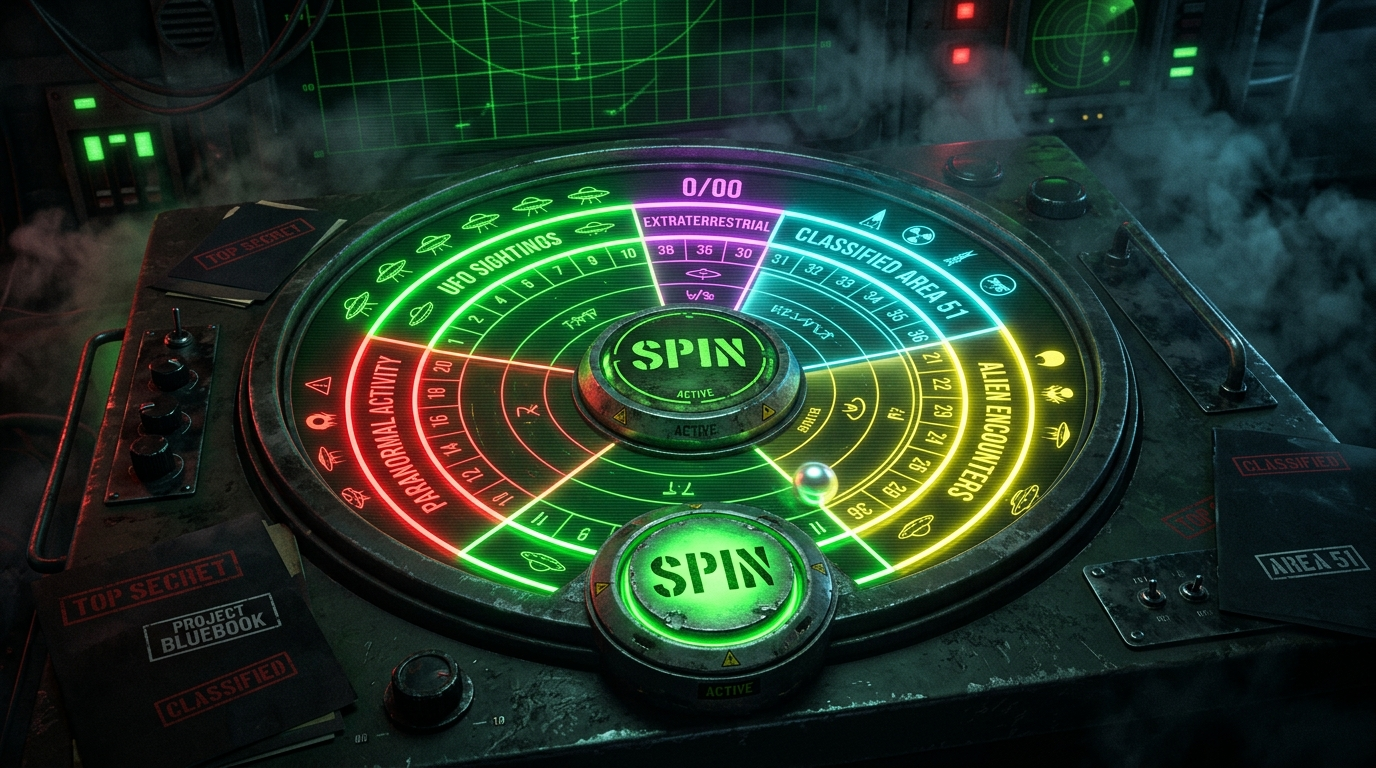
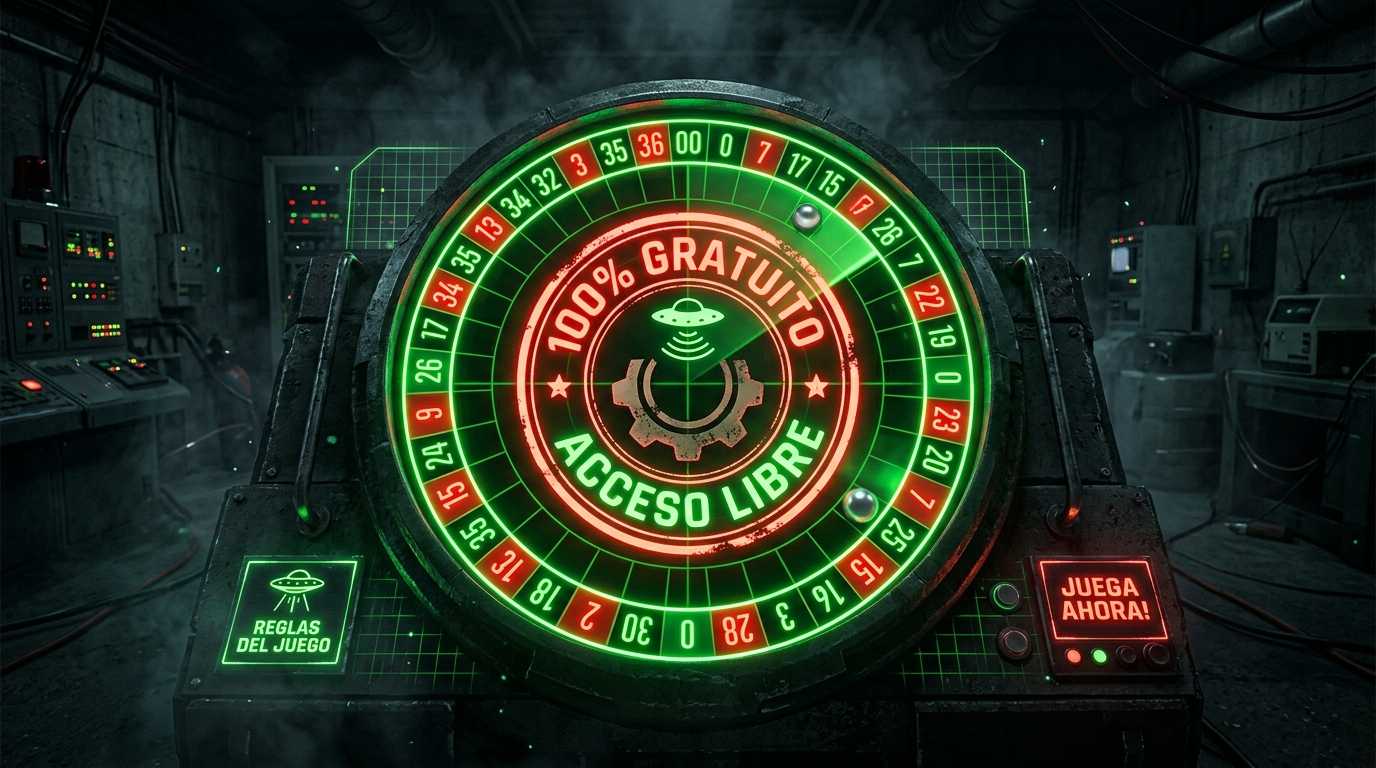
feat: actualizar imagen hero y og:image con distintivo 100% GRATUITO y texto enrich para AdSense

diff --git a/src/components/Ruleta.js b/src/components/Ruleta.js
@@ -367,12 +367,34 @@ const Ruleta = () => {
 
             {/* Instrucciones */}
             <div className="ruleta-instrucciones">
-                <p>
-                    {language === 'en'
-                        ? <>Press the central button and the <span className="destacado">classified radar</span> will select a random dossier from our archives. What will the wheel reveal?</>
-                        : <>Pulsa el botón central y el <span className="destacado">radar clasificado</span> seleccionará un expediente aleatorio de nuestros archivos. ¿Qué revelará la ruleta?</>
-                    }
-                </p>
+                {language === 'en' ? (
+                    <>
+                        <p>
+                            <span className="destacado">100% free, no registration required.</span> If you love mystery, the paranormal and true crime
+                            but don't know where to start or don't want to browse articles one by one, <strong>the Bunker Roulette</strong> is
+                            your best ally. One spin and our classified radar picks a random dossier from our entire archive.
+                        </p>
+                        <p>
+                            Don't like what came up? <span className="destacado">Spin again!</span> There are no limits — keep spinning
+                            until you find the case that hooks you. Over <strong>150 articles</strong> about UFOs, unsolved crimes,
+                            historical enigmas and paranormal news, all at one click away.
+                        </p>
+                    </>
+                ) : (
+                    <>
+                        <p>
+                            <span className="destacado">Totalmente gratis, sin registro ni suscripción.</span> Si te apasiona el misterio,
+                            lo paranormal y la crónica negra pero no sabes por dónde empezar o no quieres ir artículo por artículo,
+                            <strong> la Ruleta del Búnker</strong> es tu mejor aliada. Un solo giro y nuestro radar clasificado
+                            elige un expediente al azar de todo nuestro archivo.
+                        </p>
+                        <p>
+                            ¿No te convence lo que ha salido? <span className="destacado">¡Vuelve a girar!</span> No hay límites
+                            — dale las veces que quieras hasta dar con el caso que te enganche. Más de <strong>150 artículos</strong> sobre
+                            OVNIs, crímenes sin resolver, enigmas históricos y noticias paranormales, todo a un solo clic.
+                        </p>
+                    </>
+                )}
             </div>
 
             {/* Ruleta */}
@@ -422,35 +444,77 @@ const Ruleta = () => {
             <div className="ruleta-seo-content">
                 {language === 'en' ? (
                     <>
-                        <h2>🎡 The Bunker Roulette — Discover Hidden Content</h2>
+                        <h2>🎡 The Bunker Roulette — Your Free Gateway to the Unknown</h2>
                         <p>
-                            The <strong>Bunker Roulette</strong> is our exclusive exploration tool designed for those agents
-                            who dare to let fate decide what to read next. With a single spin, you can uncover classified
-                            <strong> UFO dossiers</strong>, <strong>true crime investigations</strong>, <strong>historical
-                            mysteries</strong> or <strong>paranormal news</strong> from our archives.
+                            The <strong>Bunker Roulette</strong> was created so you don&apos;t have to scroll through endless lists
+                            looking for something interesting. We built it for one simple reason: <strong>if you love mystery,
+                            you deserve a faster, more fun way to explore.</strong> One spin and the wheel selects a random
+                            article from our complete archive of classified dossiers.
                         </p>
                         <p>
-                            Each spin randomly selects a published article from our database of over 150 entries. The
-                            <strong> SURPRISE</strong> sector adds an extra layer of mystery: neither the category nor
-                            the specific article is known until the wheel stops spinning. It&apos;s the ultimate way to
-                            explore the unknown depths of Expediente X Granaíno.
+                            This tool is <strong>completely free</strong>, requires no registration, no subscription and no download.
+                            Just press the button and let the radar do the work. Each spin pulls from our database of over
+                            <strong> 150 published articles</strong> spanning four categories: <strong>UFO dossiers</strong> with
+                            field reports and eyewitness accounts, <strong>true crime</strong> investigations of unsolved cases,
+                            <strong> historical mysteries</strong> full of ancient legends and haunted places, and <strong>paranormal
+                            news</strong> covering the latest UAP sightings and official declassifications.
+                        </p>
+                        <p>
+                            The <strong>SURPRISE</strong> sector is the wildcard — the system picks a random category first,
+                            then a random article from that category. You won&apos;t know what&apos;s coming until the wheel stops.
+                            And if the result doesn&apos;t grab you? <strong>Just spin again.</strong> There are no limits, no cooldowns,
+                            no hidden costs. Spin as many times as you want.
+                        </p>
+                        <p>
+                            Found something you love? Share it directly on <strong>WhatsApp, Facebook or Twitter</strong> with the
+                            built-in share buttons. Every article opens its own dedicated page with the full text, images, maps
+                            and recommended reading — ready to be explored in depth.
+                        </p>
+                        <h2>Why We Built the Roulette</h2>
+                        <p>
+                            At <strong>Expediente X Granaíno</strong> we believe that the best discoveries happen by chance.
+                            Many of our readers told us they didn&apos;t know which article to read first. The roulette solves that:
+                            it removes the paradox of choice and turns browsing into a game. Whether you have five minutes or
+                            an entire evening, one spin is all it takes to fall into a rabbit hole of mystery.
                         </p>
                     </>
                 ) : (
                     <>
-                        <h2>🎡 La Ruleta del Búnker — Descubre Contenido Oculto</h2>
+                        <h2>🎡 La Ruleta del Búnker — Tu Acceso Gratuito a lo Desconocido</h2>
                         <p>
-                            La <strong>Ruleta del Búnker</strong> es nuestra herramienta exclusiva de exploración diseñada
-                            para aquellos agentes que se atreven a dejar que el destino decida qué leer a continuación.
-                            Con un solo giro, puedes desenterrar <strong>expedientes OVNI clasificados</strong>,
-                            <strong> investigaciones de crónica negra</strong>, <strong>misterios históricos</strong>
-                            o <strong>noticias paranormales</strong> de nuestros archivos.
+                            La <strong>Ruleta del Búnker</strong> se creó para que no tengas que recorrer listas interminables
+                            buscando algo interesante. La construimos por una razón muy sencilla: <strong>si te apasiona el
+                            misterio, mereces una forma más rápida y divertida de explorar.</strong> Un giro y la ruleta
+                            selecciona un artículo al azar de todo nuestro archivo de expedientes clasificados.
                         </p>
                         <p>
-                            Cada giro selecciona aleatoriamente un artículo publicado de nuestra base de datos con más de
-                            150 entradas. El sector <strong>SORPRESA</strong> añade una capa extra de misterio: ni la
-                            categoría ni el artículo concreto se conocen hasta que la ruleta se detiene. Es la forma
-                            definitiva de explorar las profundidades desconocidas de Expediente X Granaíno.
+                            Esta herramienta es <strong>completamente gratuita</strong>, no requiere registro, ni suscripción,
+                            ni descarga de ningún tipo. Solo pulsa el botón y deja que el radar haga el trabajo. Cada giro
+                            extrae de nuestra base de datos con más de <strong>150 artículos publicados</strong> repartidos
+                            en cuatro categorías: <strong>expedientes OVNI</strong> con informes de campo y testimonios de
+                            testigos, <strong>crónica negra</strong> con investigaciones de casos sin resolver,
+                            <strong> misterios históricos</strong> llenos de leyendas ancestrales y lugares encantados,
+                            y <strong>noticias paranormales</strong> con los últimos avistamientos y desclasificaciones oficiales.
+                        </p>
+                        <p>
+                            El sector <strong>SORPRESA</strong> es el comodín: el sistema elige primero una categoría al azar
+                            y después un artículo aleatorio dentro de esa categoría. No sabrás qué viene hasta que la ruleta
+                            se detenga. ¿Y si el resultado no te convence? <strong>Vuelve a girar sin límite.</strong> No hay
+                            restricciones, ni tiempos de espera, ni costes ocultos. Gira todas las veces que quieras.
+                        </p>
+                        <p>
+                            ¿Has encontrado algo que te ha enganchado? Compártelo directamente en <strong>WhatsApp, Facebook
+                            o Twitter</strong> con los botones de compartir integrados. Cada artículo se abre en su propia
+                            página dedicada con el texto completo, imágenes, mapas y lecturas recomendadas — listo para
+                            investigar a fondo.
+                        </p>
+                        <h2>Por Qué Creamos la Ruleta</h2>
+                        <p>
+                            En <strong>Expediente X Granaíno</strong> creemos que los mejores descubrimientos ocurren por
+                            casualidad. Muchos de nuestros lectores nos decían que no sabían qué artículo leer primero.
+                            La ruleta resuelve eso: elimina la parálisis de elección y convierte la navegación en un juego.
+                            Tanto si tienes cinco minutos como una tarde entera, un solo giro es todo lo que necesitas para
+                            caer en la madriguera del misterio.
                         </p>
                     </>
                 )}
